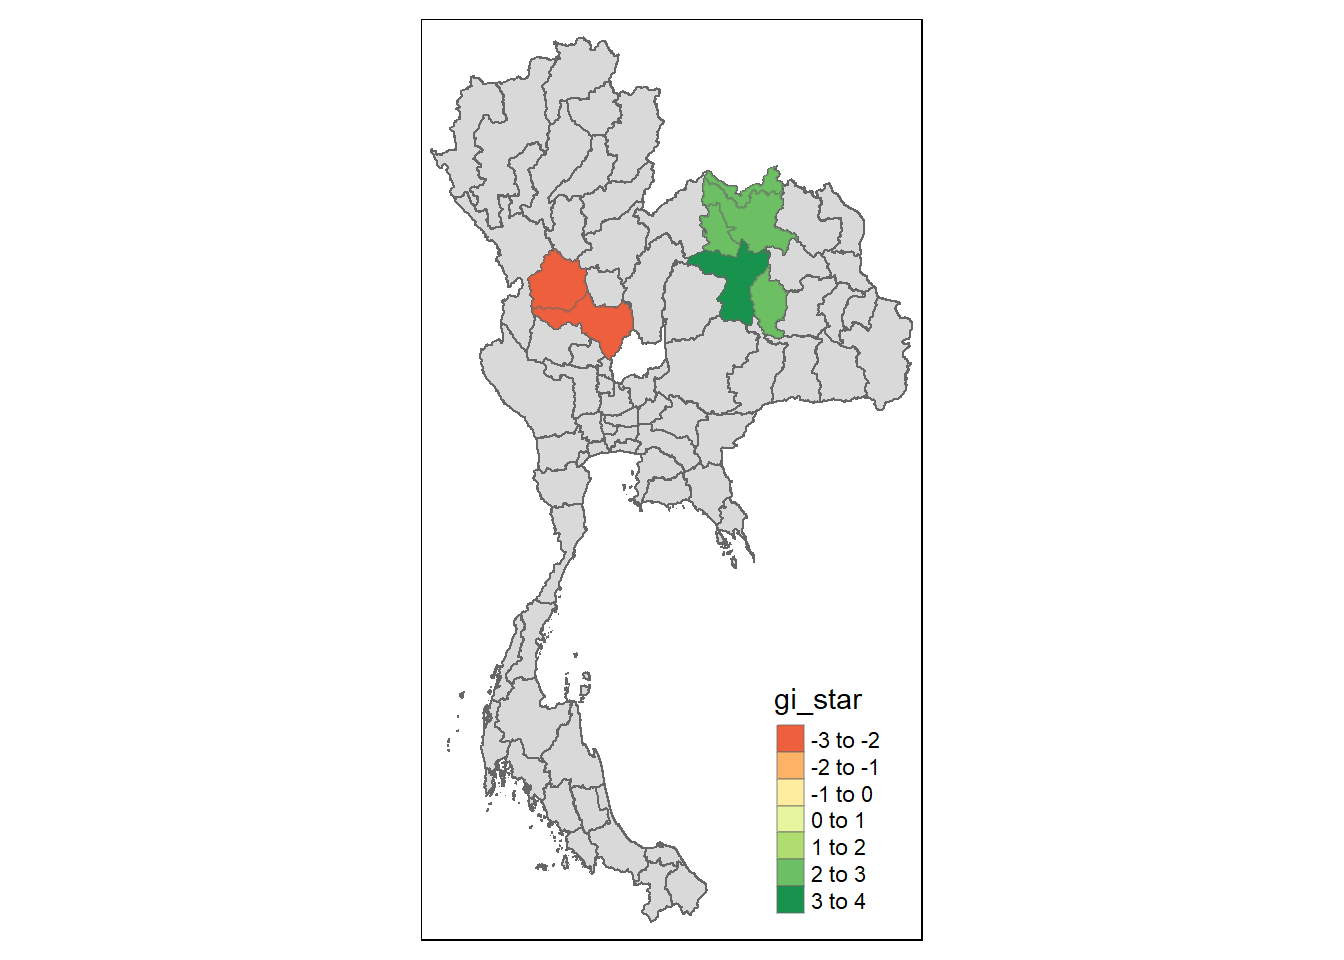
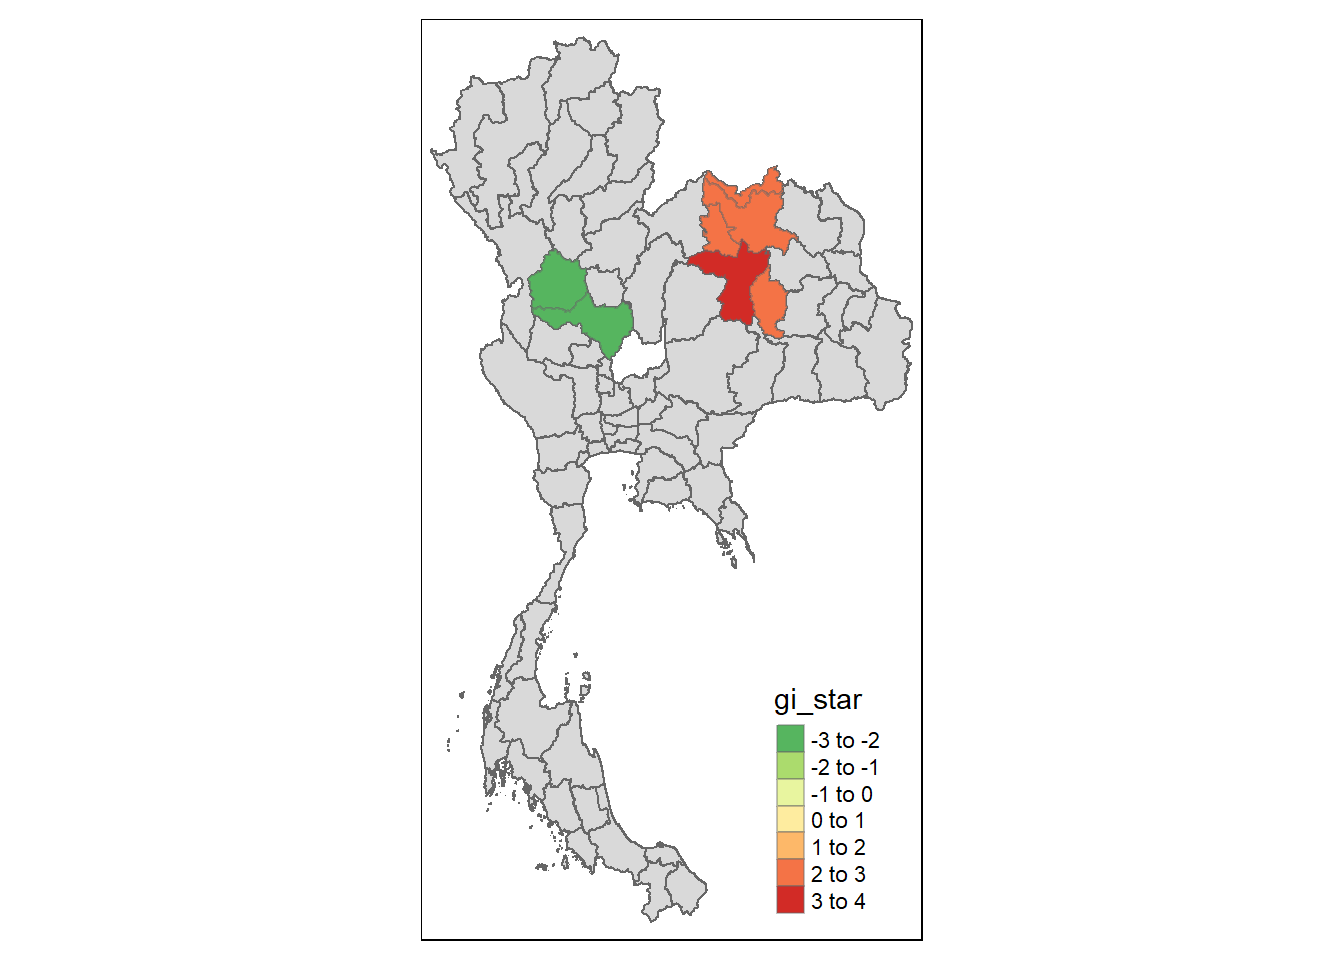
take home 2 final render

diff --git a/_site/Take-Home_Exercises/Take-Home_Ex02/Take-Home_Ex02.html b/_site/Take-Home_Exercises/Take-Home_Ex02/Take-Home_Ex02.html
@@ -149,6 +149,10 @@ pre > code.sourceCode > span > a:first-child::before { text-decoration: underlin
     <a class="dropdown-item" href="../../Hands-on_Ex/Hands-on_Ex06/Hands-on_Ex06.html">
  <span class="dropdown-text">Hands-on Exercise 6</span></a>
   </li>  
+        <li>
+    <a class="dropdown-item" href="../../Hands-on_Ex/Hands-on_Ex07/Hands-on_Ex07.html">
+ <span class="dropdown-text">Hands-on Exercise 7</span></a>
+  </li>  
     </ul>
   </li>
   <li class="nav-item dropdown ">
@@ -229,6 +233,7 @@ pre > code.sourceCode > span > a:first-child::before { text-decoration: underlin
   <li><a href="#global-measures-of-spatial-autocorrelation" id="toc-global-measures-of-spatial-autocorrelation" class="nav-link" data-scroll-target="#global-measures-of-spatial-autocorrelation">2.3 Global Measures of Spatial Autocorrelation</a></li>
   <li><a href="#local-measures-of-spatial-autocorrelation" id="toc-local-measures-of-spatial-autocorrelation" class="nav-link" data-scroll-target="#local-measures-of-spatial-autocorrelation">2.4 Local Measures of Spatial Autocorrelation</a></li>
   <li><a href="#hotcold-spot-analysis" id="toc-hotcold-spot-analysis" class="nav-link" data-scroll-target="#hotcold-spot-analysis">2.5 Hot/Cold Spot Analysis</a></li>
+  <li><a href="#learning-points" id="toc-learning-points" class="nav-link" data-scroll-target="#learning-points">2.6 Learning Points</a></li>
   </ul>
 </nav>
     </div>
@@ -261,7 +266,7 @@ pre > code.sourceCode > span > a:first-child::before { text-decoration: underlin
     <div>
     <div class="quarto-title-meta-heading">Modified</div>
     <div class="quarto-title-meta-contents">
-      <p class="date-modified">October 12, 2024</p>
+      <p class="date-modified">October 13, 2024</p>
     </div>
   </div>
     
@@ -1125,6 +1130,7 @@ tm_shape prior to each of them).</code></pre>
 </div>
 </div>
 </div>
+<p>From the LISA maps, I observe a dip in the number of clusters of drug abuse cases from 2017 to 2018, and there seems to be minimal change in the years 2018 and 2019. However, from 2019-2020, I see more clusters of spatial units with similar number of drug abuse cases forming. In 2021, there appears to be a cold spot for drug-related offences in the western provinces. In the following year, while the cluster of cold spots have decreased, a new cluster of hotspots is observed in the North Eastern provinces.</p>
 </section>
 </section>
 <section id="hotcold-spot-analysis" class="level2">
@@ -1227,8 +1233,9 @@ Caused by warning in `st_point_on_surface.sfc()`:
 <span id="cb99-2"><a href="#cb99-2" aria-hidden="true" tabindex="-1"></a>  <span class="fu">tm_polygons</span>() <span class="sc">+</span></span>
 <span id="cb99-3"><a href="#cb99-3" aria-hidden="true" tabindex="-1"></a>  <span class="fu">tm_borders</span>(<span class="at">alpha=</span><span class="fl">0.5</span>) <span class="sc">+</span></span>
 <span id="cb99-4"><a href="#cb99-4" aria-hidden="true" tabindex="-1"></a>  <span class="fu">tm_shape</span>(HCSA_sig17) <span class="sc">+</span></span>
-<span id="cb99-5"><a href="#cb99-5" aria-hidden="true" tabindex="-1"></a>  <span class="fu">tm_fill</span>(<span class="st">"gi_star"</span>) <span class="sc">+</span> </span>
-<span id="cb99-6"><a href="#cb99-6" aria-hidden="true" tabindex="-1"></a>  <span class="fu">tm_borders</span>(<span class="at">alpha =</span> <span class="fl">0.4</span>)</span></code><button title="Copy to Clipboard" class="code-copy-button"><i class="bi"></i></button></pre></div>
+<span id="cb99-5"><a href="#cb99-5" aria-hidden="true" tabindex="-1"></a>  <span class="fu">tm_fill</span>(<span class="st">"gi_star"</span>,</span>
+<span id="cb99-6"><a href="#cb99-6" aria-hidden="true" tabindex="-1"></a>          <span class="at">palette =</span> <span class="st">"-RdYlGn"</span>) <span class="sc">+</span> </span>
+<span id="cb99-7"><a href="#cb99-7" aria-hidden="true" tabindex="-1"></a>  <span class="fu">tm_borders</span>(<span class="at">alpha =</span> <span class="fl">0.4</span>)</span></code><button title="Copy to Clipboard" class="code-copy-button"><i class="bi"></i></button></pre></div>
 <div class="cell-output cell-output-stderr">
 <pre><code>Warning: One tm layer group has duplicated layer types, which are omitted. To
 draw multiple layers of the same type, use multiple layer groups (i.e. specify
@@ -1258,8 +1265,9 @@ tm_shape prior to each of them).</code></pre>
 <span id="cb104-2"><a href="#cb104-2" aria-hidden="true" tabindex="-1"></a>  <span class="fu">tm_polygons</span>() <span class="sc">+</span></span>
 <span id="cb104-3"><a href="#cb104-3" aria-hidden="true" tabindex="-1"></a>  <span class="fu">tm_borders</span>(<span class="at">alpha=</span><span class="fl">0.5</span>) <span class="sc">+</span></span>
 <span id="cb104-4"><a href="#cb104-4" aria-hidden="true" tabindex="-1"></a>  <span class="fu">tm_shape</span>(HCSA_sig18) <span class="sc">+</span></span>
-<span id="cb104-5"><a href="#cb104-5" aria-hidden="true" tabindex="-1"></a>  <span class="fu">tm_fill</span>(<span class="st">"gi_star"</span>) <span class="sc">+</span> </span>
-<span id="cb104-6"><a href="#cb104-6" aria-hidden="true" tabindex="-1"></a>  <span class="fu">tm_borders</span>(<span class="at">alpha =</span> <span class="fl">0.4</span>)</span></code><button title="Copy to Clipboard" class="code-copy-button"><i class="bi"></i></button></pre></div>
+<span id="cb104-5"><a href="#cb104-5" aria-hidden="true" tabindex="-1"></a>  <span class="fu">tm_fill</span>(<span class="st">"gi_star"</span>,</span>
+<span id="cb104-6"><a href="#cb104-6" aria-hidden="true" tabindex="-1"></a>          <span class="at">palette =</span> <span class="st">"-RdYlGn"</span>) <span class="sc">+</span> </span>
+<span id="cb104-7"><a href="#cb104-7" aria-hidden="true" tabindex="-1"></a>  <span class="fu">tm_borders</span>(<span class="at">alpha =</span> <span class="fl">0.4</span>)</span></code><button title="Copy to Clipboard" class="code-copy-button"><i class="bi"></i></button></pre></div>
 <div class="cell-output cell-output-stderr">
 <pre><code>Warning: One tm layer group has duplicated layer types, which are omitted. To
 draw multiple layers of the same type, use multiple layer groups (i.e. specify
@@ -1289,8 +1297,9 @@ tm_shape prior to each of them).</code></pre>
 <span id="cb109-2"><a href="#cb109-2" aria-hidden="true" tabindex="-1"></a>  <span class="fu">tm_polygons</span>() <span class="sc">+</span></span>
 <span id="cb109-3"><a href="#cb109-3" aria-hidden="true" tabindex="-1"></a>  <span class="fu">tm_borders</span>(<span class="at">alpha=</span><span class="fl">0.5</span>) <span class="sc">+</span></span>
 <span id="cb109-4"><a href="#cb109-4" aria-hidden="true" tabindex="-1"></a>  <span class="fu">tm_shape</span>(HCSA_sig19) <span class="sc">+</span></span>
-<span id="cb109-5"><a href="#cb109-5" aria-hidden="true" tabindex="-1"></a>  <span class="fu">tm_fill</span>(<span class="st">"gi_star"</span>) <span class="sc">+</span> </span>
-<span id="cb109-6"><a href="#cb109-6" aria-hidden="true" tabindex="-1"></a>  <span class="fu">tm_borders</span>(<span class="at">alpha =</span> <span class="fl">0.4</span>)</span></code><button title="Copy to Clipboard" class="code-copy-button"><i class="bi"></i></button></pre></div>
+<span id="cb109-5"><a href="#cb109-5" aria-hidden="true" tabindex="-1"></a>  <span class="fu">tm_fill</span>(<span class="st">"gi_star"</span>,</span>
+<span id="cb109-6"><a href="#cb109-6" aria-hidden="true" tabindex="-1"></a>          <span class="at">palette =</span> <span class="st">"-RdYlGn"</span>) <span class="sc">+</span> </span>
+<span id="cb109-7"><a href="#cb109-7" aria-hidden="true" tabindex="-1"></a>  <span class="fu">tm_borders</span>(<span class="at">alpha =</span> <span class="fl">0.4</span>)</span></code><button title="Copy to Clipboard" class="code-copy-button"><i class="bi"></i></button></pre></div>
 <div class="cell-output cell-output-stderr">
 <pre><code>Warning: One tm layer group has duplicated layer types, which are omitted. To
 draw multiple layers of the same type, use multiple layer groups (i.e. specify
@@ -1320,8 +1329,9 @@ tm_shape prior to each of them).</code></pre>
 <span id="cb114-2"><a href="#cb114-2" aria-hidden="true" tabindex="-1"></a>  <span class="fu">tm_polygons</span>() <span class="sc">+</span></span>
 <span id="cb114-3"><a href="#cb114-3" aria-hidden="true" tabindex="-1"></a>  <span class="fu">tm_borders</span>(<span class="at">alpha=</span><span class="fl">0.5</span>) <span class="sc">+</span></span>
 <span id="cb114-4"><a href="#cb114-4" aria-hidden="true" tabindex="-1"></a>  <span class="fu">tm_shape</span>(HCSA_sig20) <span class="sc">+</span></span>
-<span id="cb114-5"><a href="#cb114-5" aria-hidden="true" tabindex="-1"></a>  <span class="fu">tm_fill</span>(<span class="st">"gi_star"</span>) <span class="sc">+</span> </span>
-<span id="cb114-6"><a href="#cb114-6" aria-hidden="true" tabindex="-1"></a>  <span class="fu">tm_borders</span>(<span class="at">alpha =</span> <span class="fl">0.4</span>)</span></code><button title="Copy to Clipboard" class="code-copy-button"><i class="bi"></i></button></pre></div>
+<span id="cb114-5"><a href="#cb114-5" aria-hidden="true" tabindex="-1"></a>  <span class="fu">tm_fill</span>(<span class="st">"gi_star"</span>,</span>
+<span id="cb114-6"><a href="#cb114-6" aria-hidden="true" tabindex="-1"></a>          <span class="at">palette =</span> <span class="st">"-RdYlGn"</span>) <span class="sc">+</span> </span>
+<span id="cb114-7"><a href="#cb114-7" aria-hidden="true" tabindex="-1"></a>  <span class="fu">tm_borders</span>(<span class="at">alpha =</span> <span class="fl">0.4</span>)</span></code><button title="Copy to Clipboard" class="code-copy-button"><i class="bi"></i></button></pre></div>
 <div class="cell-output cell-output-stderr">
 <pre><code>Warning: One tm layer group has duplicated layer types, which are omitted. To
 draw multiple layers of the same type, use multiple layer groups (i.e. specify
@@ -1351,8 +1361,9 @@ tm_shape prior to each of them).</code></pre>
 <span id="cb119-2"><a href="#cb119-2" aria-hidden="true" tabindex="-1"></a>  <span class="fu">tm_polygons</span>() <span class="sc">+</span></span>
 <span id="cb119-3"><a href="#cb119-3" aria-hidden="true" tabindex="-1"></a>  <span class="fu">tm_borders</span>(<span class="at">alpha=</span><span class="fl">0.5</span>) <span class="sc">+</span></span>
 <span id="cb119-4"><a href="#cb119-4" aria-hidden="true" tabindex="-1"></a>  <span class="fu">tm_shape</span>(HCSA_sig21) <span class="sc">+</span></span>
-<span id="cb119-5"><a href="#cb119-5" aria-hidden="true" tabindex="-1"></a>  <span class="fu">tm_fill</span>(<span class="st">"gi_star"</span>) <span class="sc">+</span> </span>
-<span id="cb119-6"><a href="#cb119-6" aria-hidden="true" tabindex="-1"></a>  <span class="fu">tm_borders</span>(<span class="at">alpha =</span> <span class="fl">0.4</span>)</span></code><button title="Copy to Clipboard" class="code-copy-button"><i class="bi"></i></button></pre></div>
+<span id="cb119-5"><a href="#cb119-5" aria-hidden="true" tabindex="-1"></a>  <span class="fu">tm_fill</span>(<span class="st">"gi_star"</span>,</span>
+<span id="cb119-6"><a href="#cb119-6" aria-hidden="true" tabindex="-1"></a>          <span class="at">palette =</span> <span class="st">"-RdYlGn"</span>) <span class="sc">+</span> </span>
+<span id="cb119-7"><a href="#cb119-7" aria-hidden="true" tabindex="-1"></a>  <span class="fu">tm_borders</span>(<span class="at">alpha =</span> <span class="fl">0.4</span>)</span></code><button title="Copy to Clipboard" class="code-copy-button"><i class="bi"></i></button></pre></div>
 <div class="cell-output cell-output-stderr">
 <pre><code>Warning: One tm layer group has duplicated layer types, which are omitted. To
 draw multiple layers of the same type, use multiple layer groups (i.e. specify
@@ -1379,8 +1390,9 @@ tm_shape prior to each of them).</code></pre>
 <span id="cb123-2"><a href="#cb123-2" aria-hidden="true" tabindex="-1"></a>  <span class="fu">tm_polygons</span>() <span class="sc">+</span></span>
 <span id="cb123-3"><a href="#cb123-3" aria-hidden="true" tabindex="-1"></a>  <span class="fu">tm_borders</span>(<span class="at">alpha=</span><span class="fl">0.5</span>) <span class="sc">+</span></span>
 <span id="cb123-4"><a href="#cb123-4" aria-hidden="true" tabindex="-1"></a>  <span class="fu">tm_shape</span>(HCSA_sig22) <span class="sc">+</span></span>
-<span id="cb123-5"><a href="#cb123-5" aria-hidden="true" tabindex="-1"></a>  <span class="fu">tm_fill</span>(<span class="st">"gi_star"</span>) <span class="sc">+</span> </span>
-<span id="cb123-6"><a href="#cb123-6" aria-hidden="true" tabindex="-1"></a>  <span class="fu">tm_borders</span>(<span class="at">alpha =</span> <span class="fl">0.4</span>)</span></code><button title="Copy to Clipboard" class="code-copy-button"><i class="bi"></i></button></pre></div>
+<span id="cb123-5"><a href="#cb123-5" aria-hidden="true" tabindex="-1"></a>  <span class="fu">tm_fill</span>(<span class="st">"gi_star"</span>,</span>
+<span id="cb123-6"><a href="#cb123-6" aria-hidden="true" tabindex="-1"></a>          <span class="at">palette =</span> <span class="st">"-RdYlGn"</span>) <span class="sc">+</span> </span>
+<span id="cb123-7"><a href="#cb123-7" aria-hidden="true" tabindex="-1"></a>  <span class="fu">tm_borders</span>(<span class="at">alpha =</span> <span class="fl">0.4</span>)</span></code><button title="Copy to Clipboard" class="code-copy-button"><i class="bi"></i></button></pre></div>
 <div class="cell-output cell-output-stderr">
 <pre><code>Warning: One tm layer group has duplicated layer types, which are omitted. To
 draw multiple layers of the same type, use multiple layer groups (i.e. specify
@@ -1400,9 +1412,24 @@ tm_shape prior to each of them).</code></pre>
 </div>
 </div>
 </div>
-
-
+<p>The Gi* statistics plot once again confirm the cold and hotspots observed by the LISA plots earlier. However, it further reveals a cold spot in the Northern Central provinces in 2017. These cold spots drop drastically in the years 2018-2019, further corroborating the pattern revealed by the Local Moran I plots regarding the increase in the drug abuse cases in the neighbouring spatial units.</p>
+<p>I also observe that the capital city of Bangkok had been a hotspot for drug abuse in the years 2017-2020, but not in 2021-2022.</p>
 </section>
+</section>
+<section id="learning-points" class="level2">
+<h2 class="anchored" data-anchor-id="learning-points">2.6 Learning Points</h2>
+<p>From this Take-Home Exercise, I have learnt:</p>
+<ul>
+<li><p>Using appropriate methods to import files of different data types</p></li>
+<li><p>The importance of looking through the data once it’s been downloaded to the R environment to see what needs to be processed</p></li>
+<li><p>The importance of checking if the the downloaded data has been saved in an appropriate datatype that can be used in our analysis</p></li>
+<li><p>The importance of knowing the geograpahical area and its features earlier. (Accounting for disconnected boundaries and islands)</p></li>
+<li><p>Knowing alternate methods of handling the case where spatial units have missing neighbours</p></li>
+<li><p>Interpreting Global and Local Moran I’s values in specific contexts</p></li>
+<li><p>Interpreting Lisa Maps and understanding their link to GI* statistic analysis</p></li>
+</ul>
+
+
 </section>
 
 </main> <!-- /main -->
